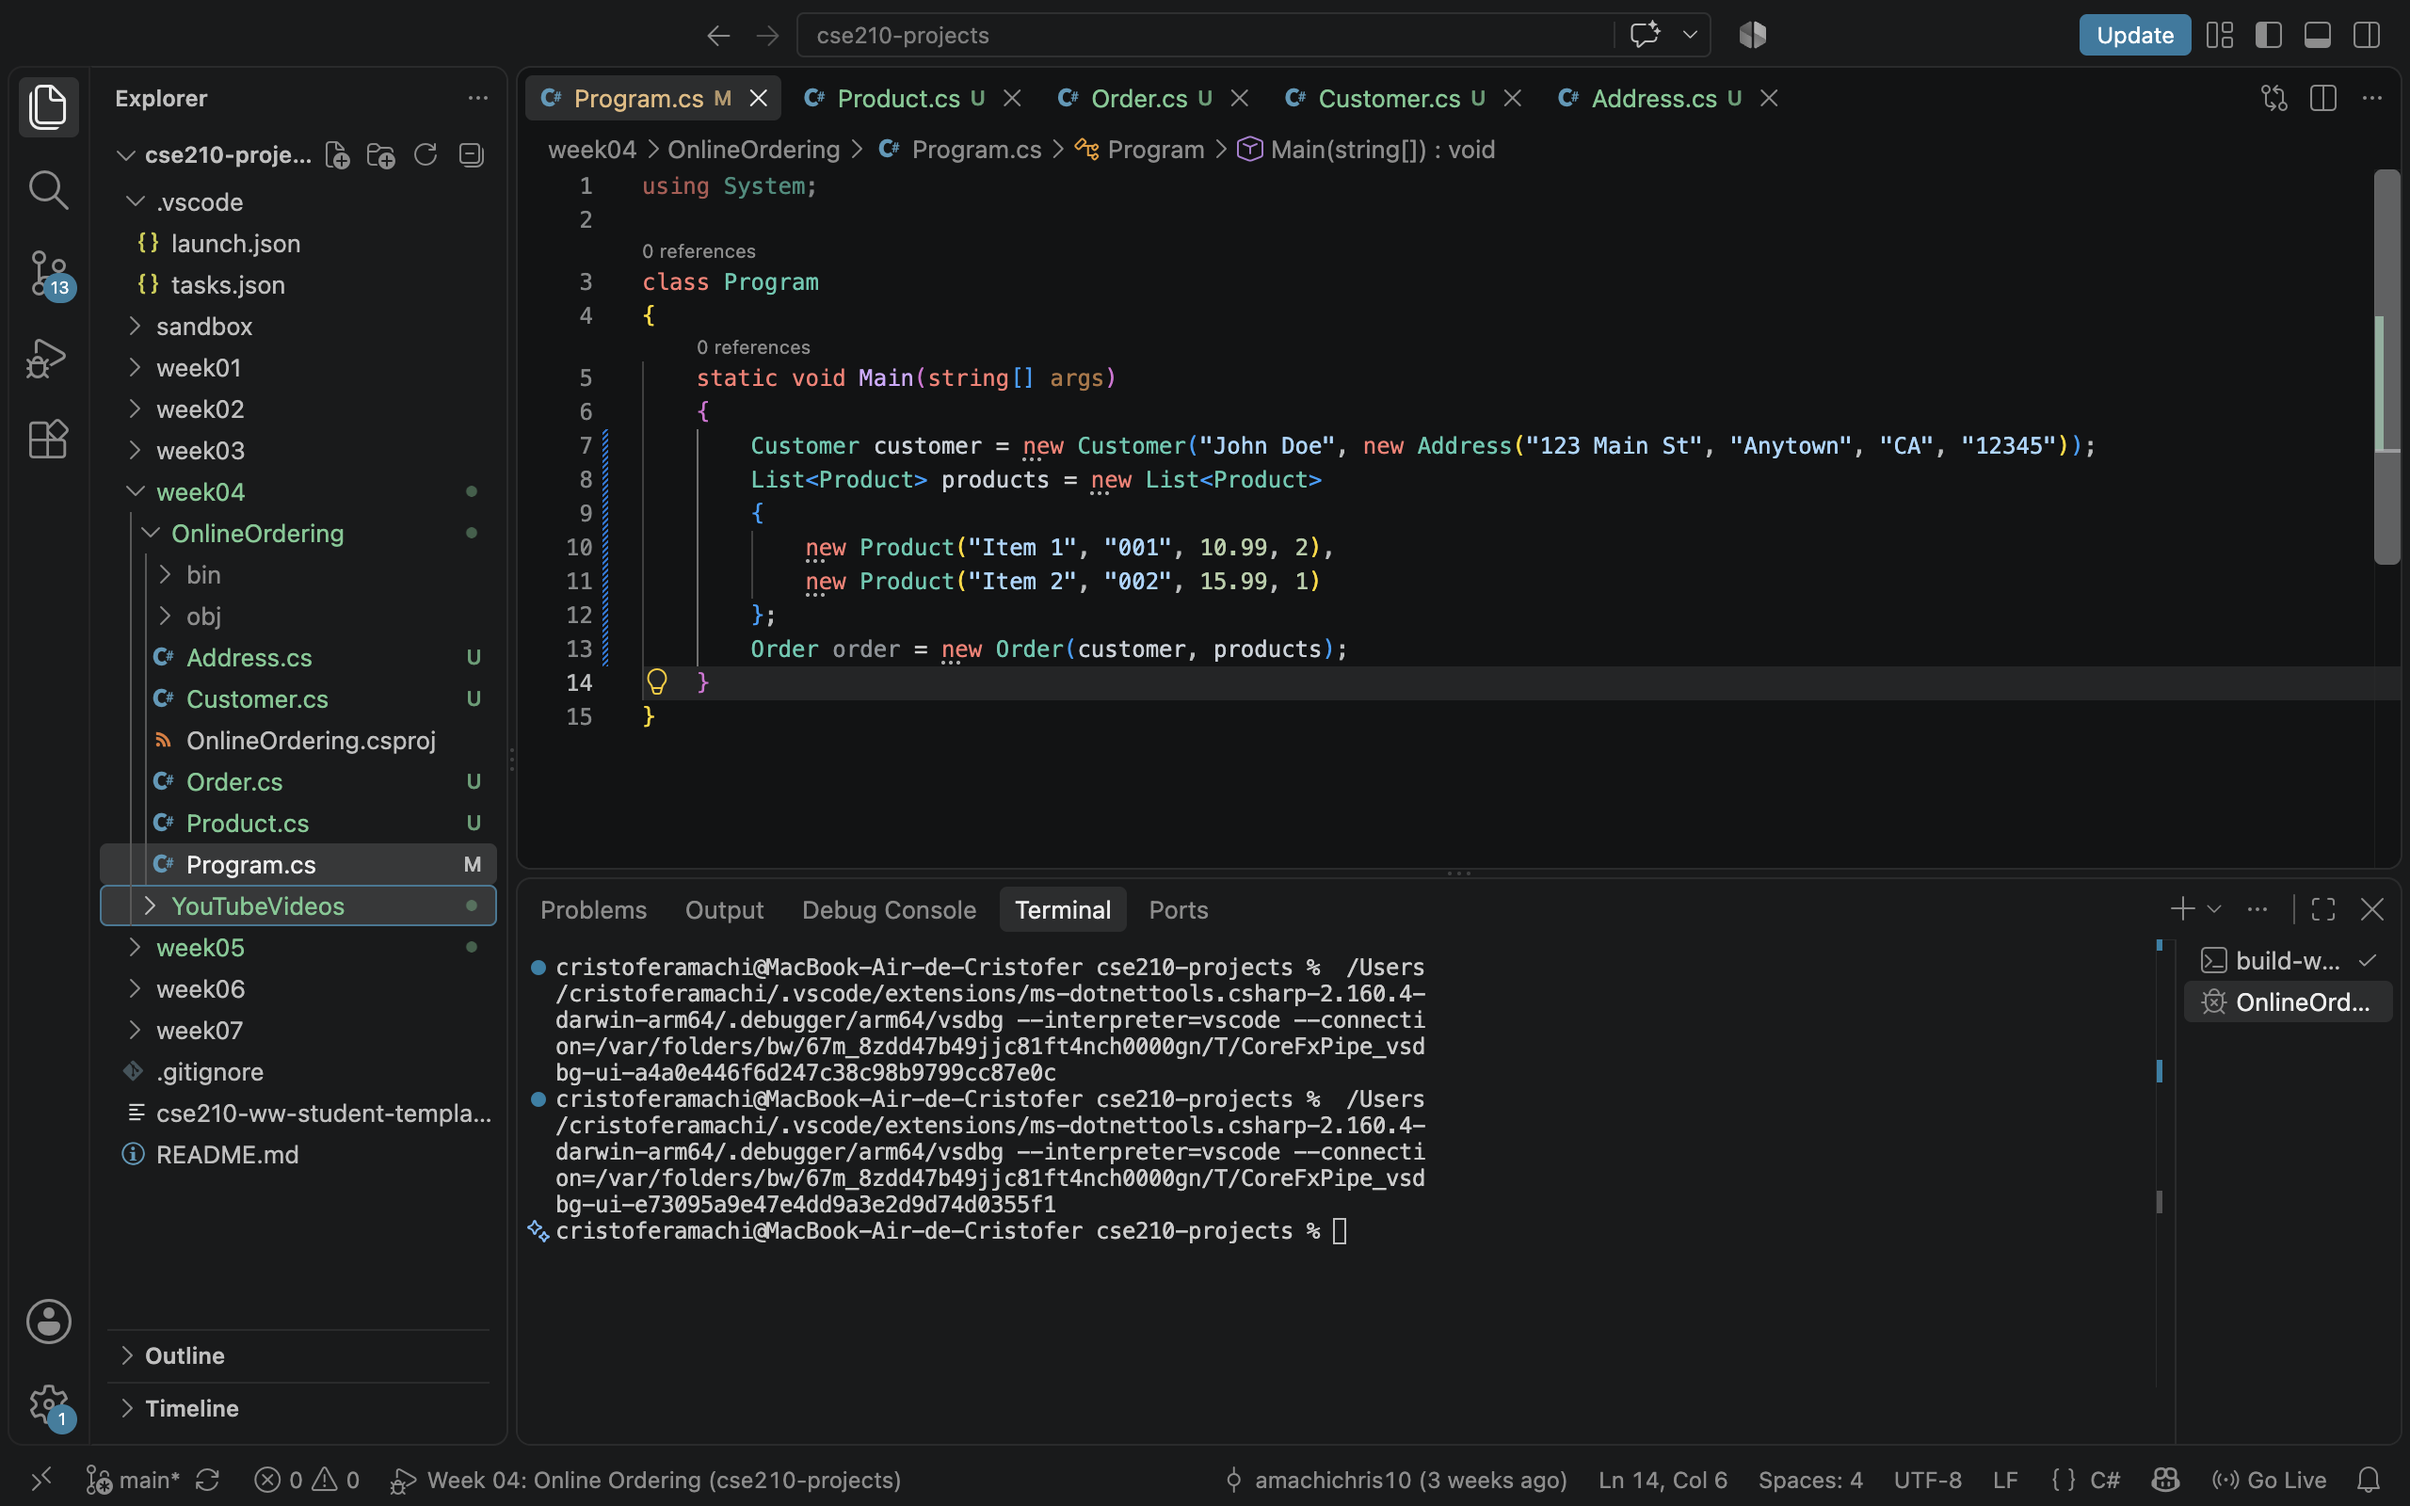
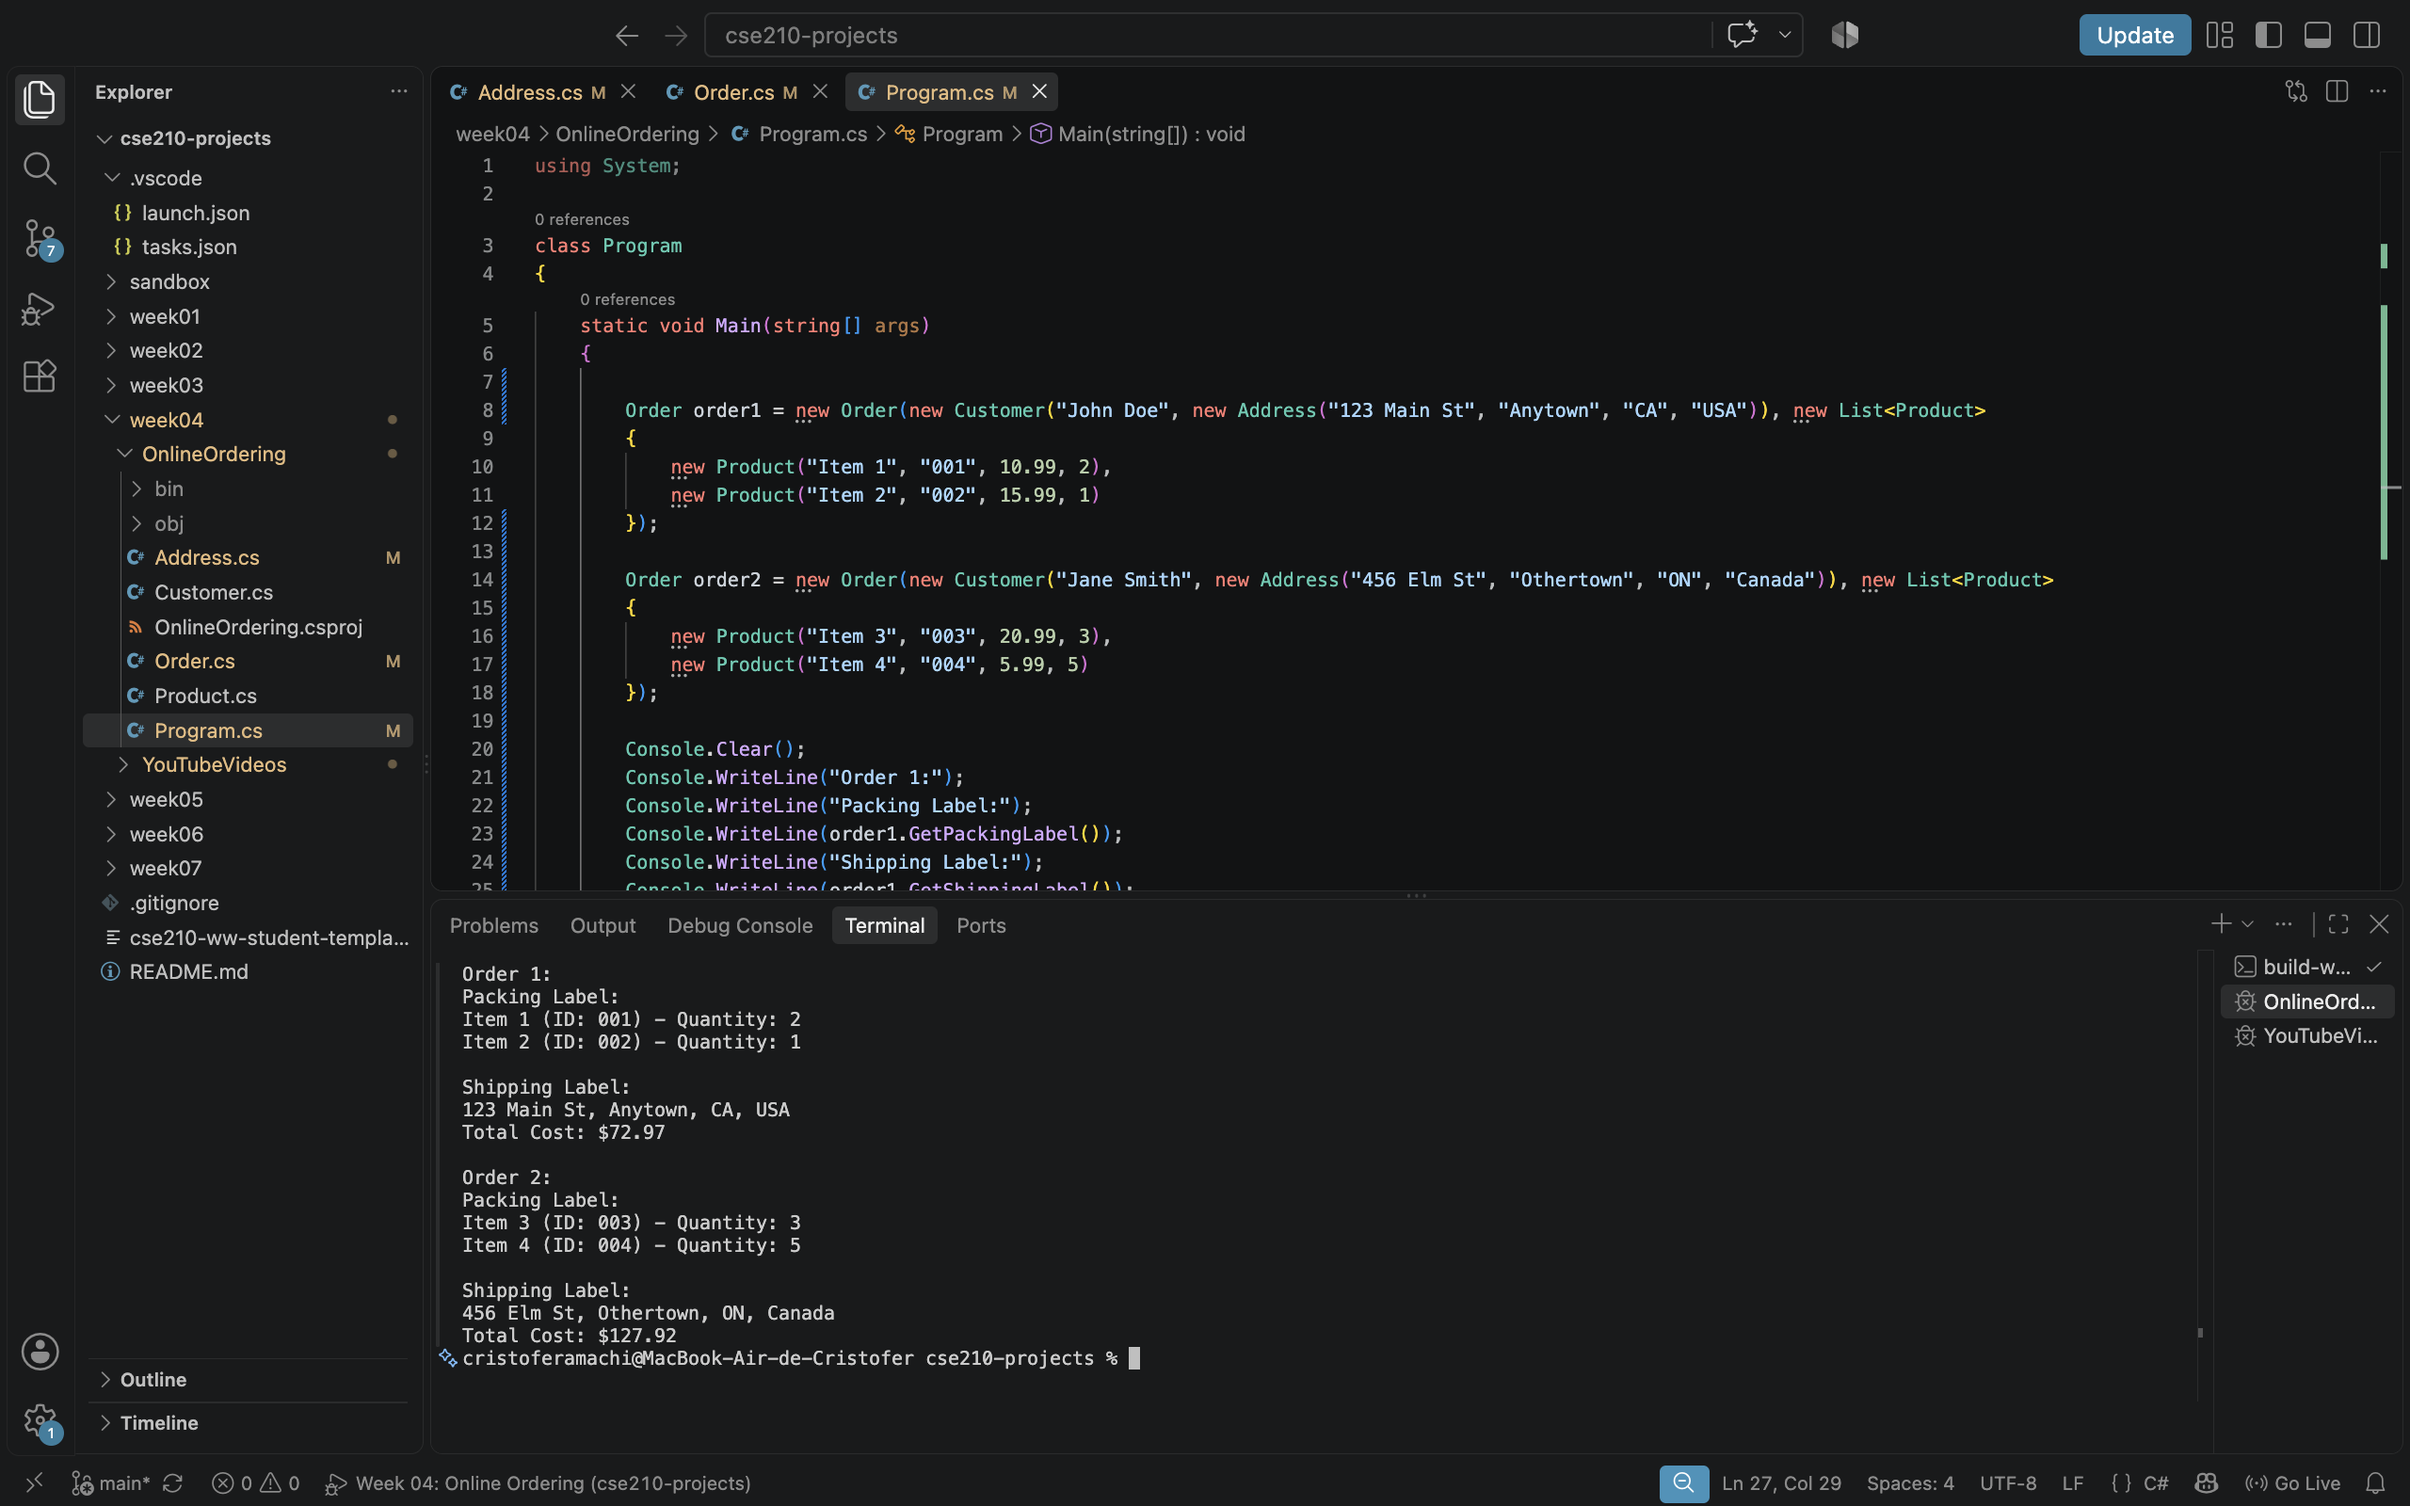
new screenshots added

diff --git a/week04/OnlineOrdering/Program.cs b/week04/OnlineOrdering/Program.cs
@@ -4,12 +4,31 @@ class Program
 {
     static void Main(string[] args)
     {
-        Customer customer = new Customer("John Doe", new Address("123 Main St", "Anytown", "CA", "12345"));
-        List<Product> products = new List<Product>
+
+        Order order1 = new Order(new Customer("John Doe", new Address("123 Main St", "Anytown", "CA", "USA")), new List<Product>
         {
             new Product("Item 1", "001", 10.99, 2),
             new Product("Item 2", "002", 15.99, 1)
-        };
-        Order order = new Order(customer, products);
+        });
+        
+        Order order2 = new Order(new Customer("Jane Smith", new Address("456 Elm St", "Othertown", "ON", "Canada")), new List<Product>
+        {
+            new Product("Item 3", "003", 20.99, 3),
+            new Product("Item 4", "004", 5.99, 5)
+        });
+
+        Console.Clear();
+        Console.WriteLine("Order 1:");
+        Console.WriteLine("Packing Label:");
+        Console.WriteLine(order1.GetPackingLabel());
+        Console.WriteLine("Shipping Label:");
+        Console.WriteLine(order1.GetShippingLabel());
+        Console.WriteLine($"Total Cost: ${order1.GetTotalCost():0.00}");
+        Console.WriteLine("\nOrder 2:");
+        Console.WriteLine("Packing Label:");
+        Console.WriteLine(order2.GetPackingLabel());
+        Console.WriteLine("Shipping Label:");
+        Console.WriteLine(order2.GetShippingLabel());
+        Console.WriteLine($"Total Cost: ${order2.GetTotalCost():0.00}");
     }
 }

diff --git a/week04/OnlineOrdering/Address.cs b/week04/OnlineOrdering/Address.cs
@@ -5,34 +5,14 @@ public class Address
     private string _street;
     private string _city;
     private string _state;
-    private string _zipCode;
+    private string _country;
 
-    public Address(string street, string city, string state, string zipCode)
+    public Address(string street, string city, string state, string country)
     {
         _street = street;
         _city = city;
         _state = state;
-        _zipCode = zipCode;
-    }
-
-    public string GetStreet()
-    {
-        return _street;
-    }
-
-    public string GetCity()
-    {
-        return _city;
-    }
-
-    public string GetState()
-    {
-        return _state;
-    }
-
-    public string GetZipCode()
-    {
-        return _zipCode;
+        _country = country;
     }
 
     public bool IsInUSA()
@@ -40,8 +20,8 @@ public class Address
         return _state.ToUpper() == "USA";
     }
 
-    public string getFullAddress()
+    public string GetFullAddress()
     {
-        return $"{_street}, {_city}, {_state} {_zipCode}";
+        return $"{_street}, {_city}, {_state}, {_country}";
     }
 }

diff --git a/week04/YouTubeVideos/Program.cs b/week04/YouTubeVideos/Program.cs
@@ -29,6 +29,8 @@ class Program
         videos.Add(video2);
         videos.Add(video3);
 
+        Console.Clear();
+
         foreach (var video in videos)
         {
             Console.WriteLine($"Title: {video.GetTitle()}");
@@ -36,7 +38,7 @@ class Program
             Console.WriteLine($"Length: {video.GetLengthInSeconds()} seconds");
             Console.WriteLine($"Number of Comments: {video.GetNumberOfComments()}");
             Console.WriteLine("Comments:");
-            video.GetComments();
+            video.DisplayComments();
             Console.WriteLine();
         }
     }

diff --git a/week04/OnlineOrdering/Order.cs b/week04/OnlineOrdering/Order.cs
@@ -36,7 +36,7 @@ public class Order
 
     public string GetPackingLabel()
     {
-        string packingLabel = "Packing Label:\n";
+        string packingLabel = "";
         foreach (Product product in _products)
         {
             packingLabel += $"{product.GetName()} (ID: {product.GetProductId()}) - Quantity: {product.GetQuantity()}\n";
@@ -46,6 +46,6 @@ public class Order
 
     public string GetShippingLabel()
     {
-        return _customer.GetAddress().getFullAddress();
+        return _customer.GetAddress().GetFullAddress();
     }
 }

diff --git a/week04/YouTubeVideos/Comment.cs b/week04/YouTubeVideos/Comment.cs
@@ -2,18 +2,18 @@ using System;
 
 class Comment
 {
-    private string _author;
+    private string _name;
     private string _text;
 
-    public Comment(string author, string text)
+    public Comment(string name, string text)
     {
-        _author = author;
+        _name = name;
         _text = text;
     }
 
-    public string GetAuthor()
+    public string GetName()
     {
-        return _author;
+        return _name;
     }
 
     public string GetText()

diff --git a/week04/YouTubeVideos/Video.cs b/week04/YouTubeVideos/Video.cs
@@ -36,11 +36,11 @@ class Video
         return _lengthInSeconds;
     }
 
-    public void GetComments()
+    public void DisplayComments()
     {
         foreach (var comment in _commentList)
         {
-            Console.WriteLine($"- {comment.GetAuthor()}: {comment.GetText()}");
+            Console.WriteLine($"- {comment.GetName()}: {comment.GetText()}");
         }
     }
 }
